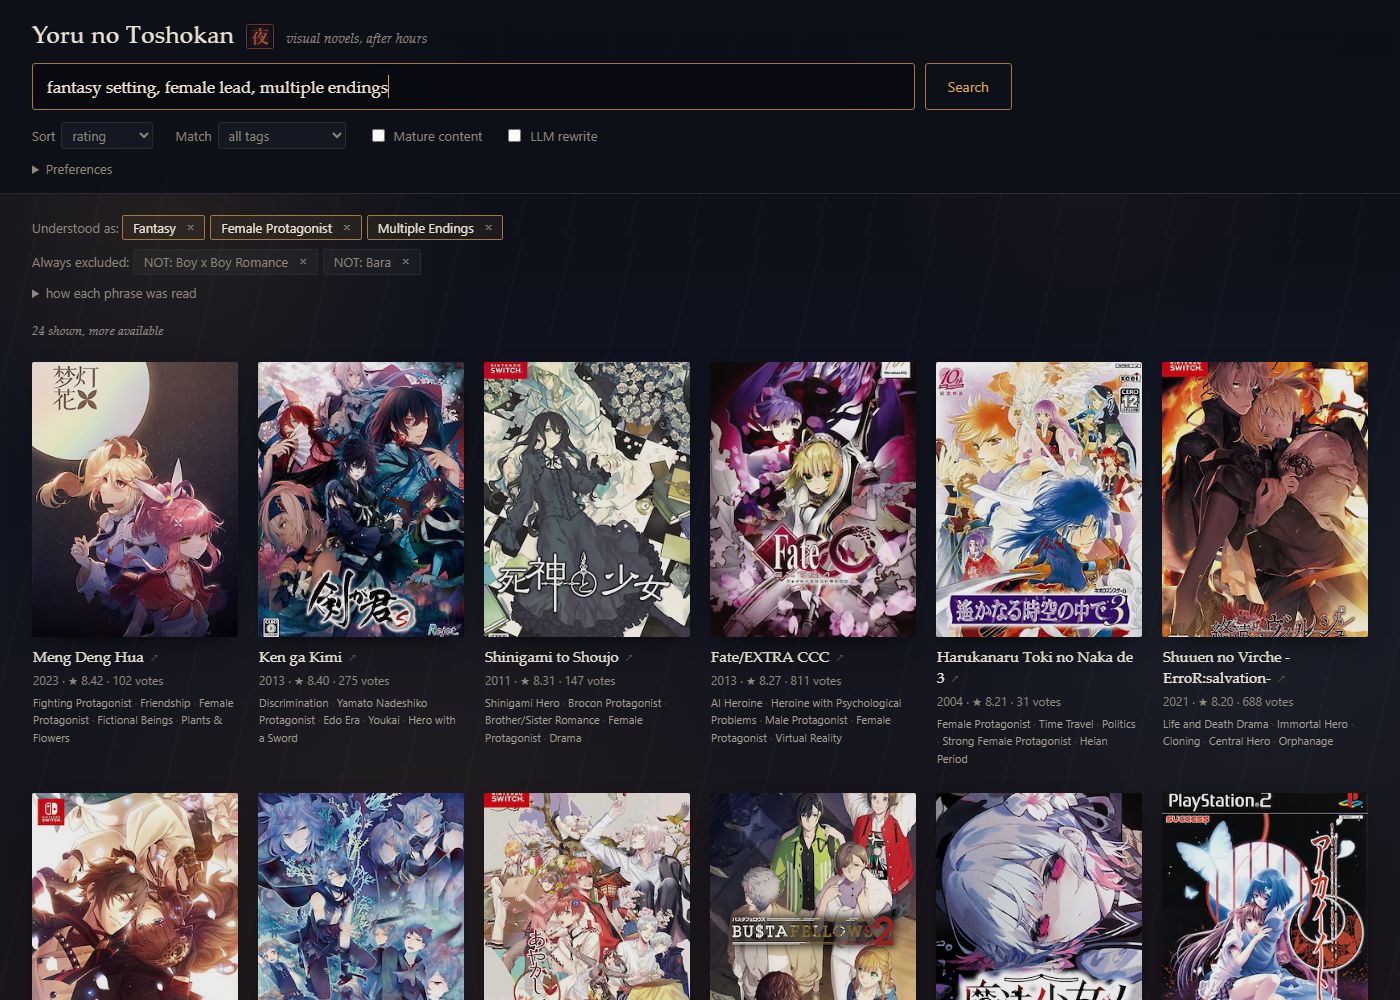
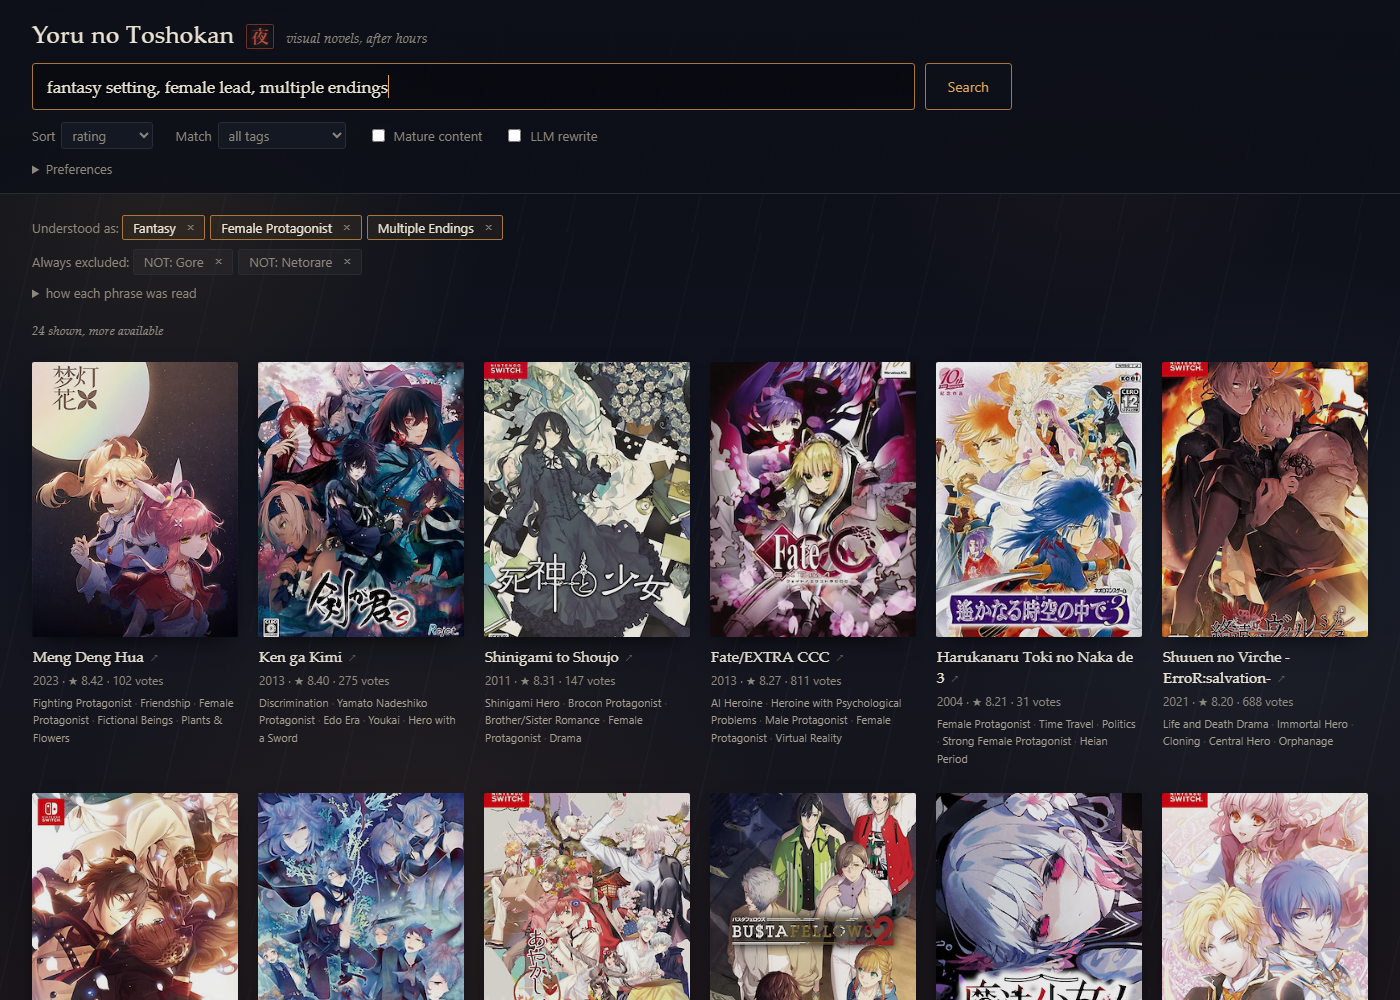
Update results screenshot and exclusion example

Changed region(s): [[0.8293, 0.775, 0.9829, 1.0], [0.1229, 0.248, 0.2764, 0.279]]

diff --git a/README.md b/README.md
@@ -31,7 +31,7 @@ it's free, and it needs no account.
 - **A Mature switch that means it.** Off: nothing with sexual content, at any
   level. On: only titles with sexual content. No in-between leaking through.
 - **Your own filters.** Keep a list of tags you never want to see, for example
-  "Boy x Boy Romance", separately for each mode. Hide individual titles you're
+  "Gore" or "Netorare", separately for each mode. Hide individual titles you're
   not interested in, and they stay gone.
 - **Bookmarkable searches.** Each search lives in the address bar, so you can
   save it or share it.
